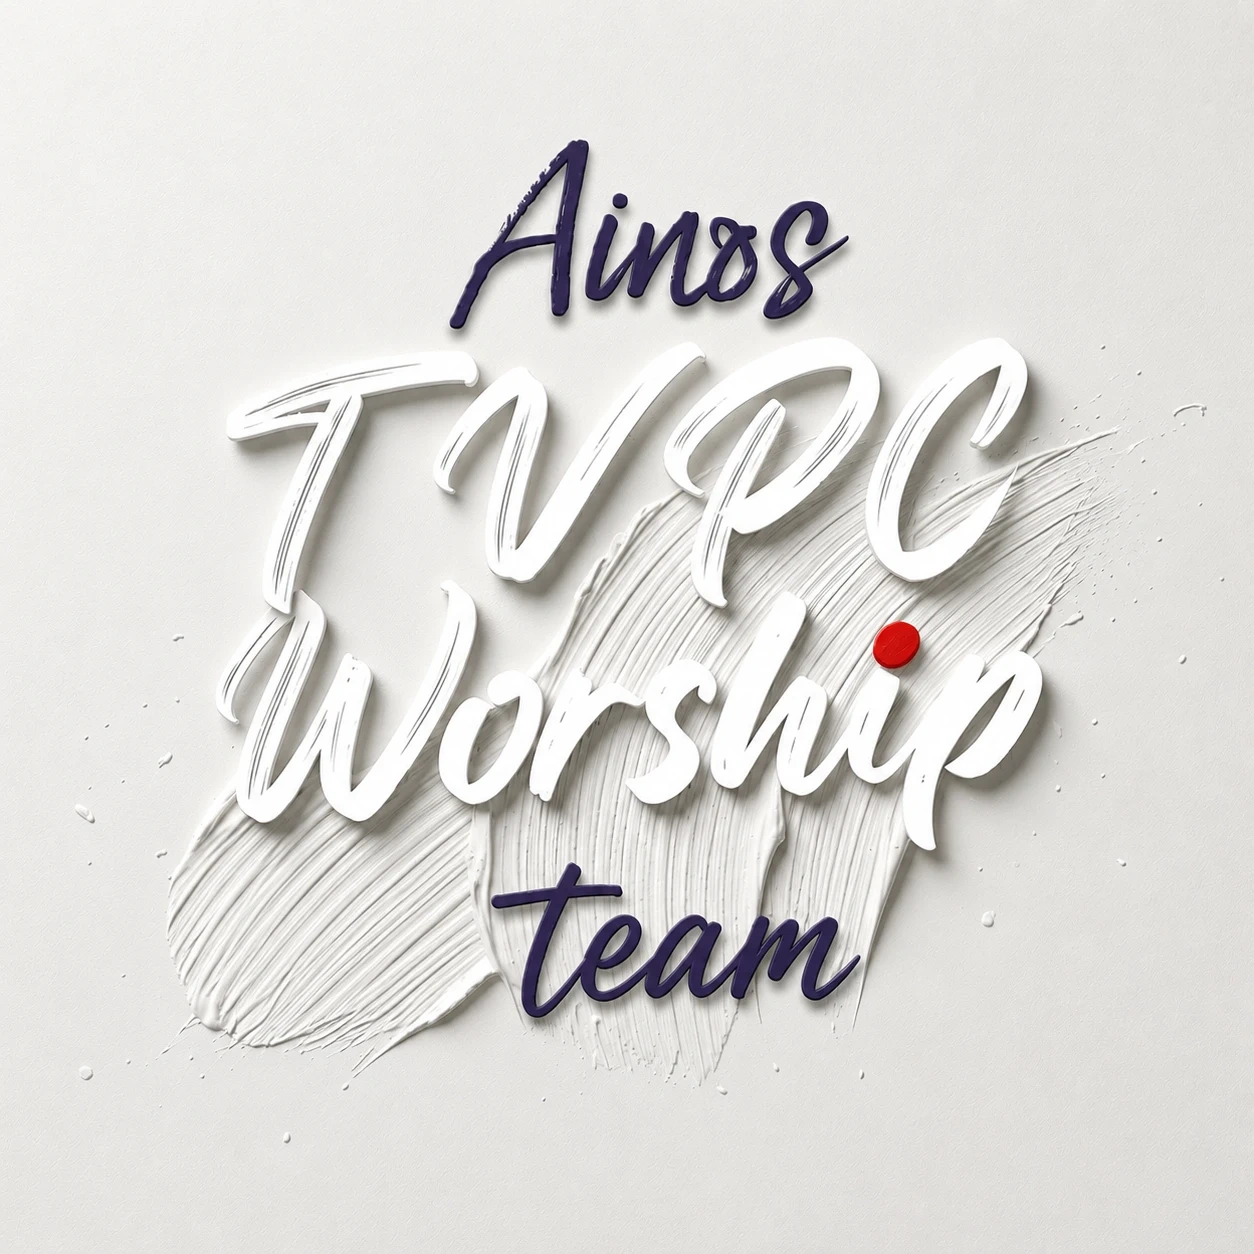
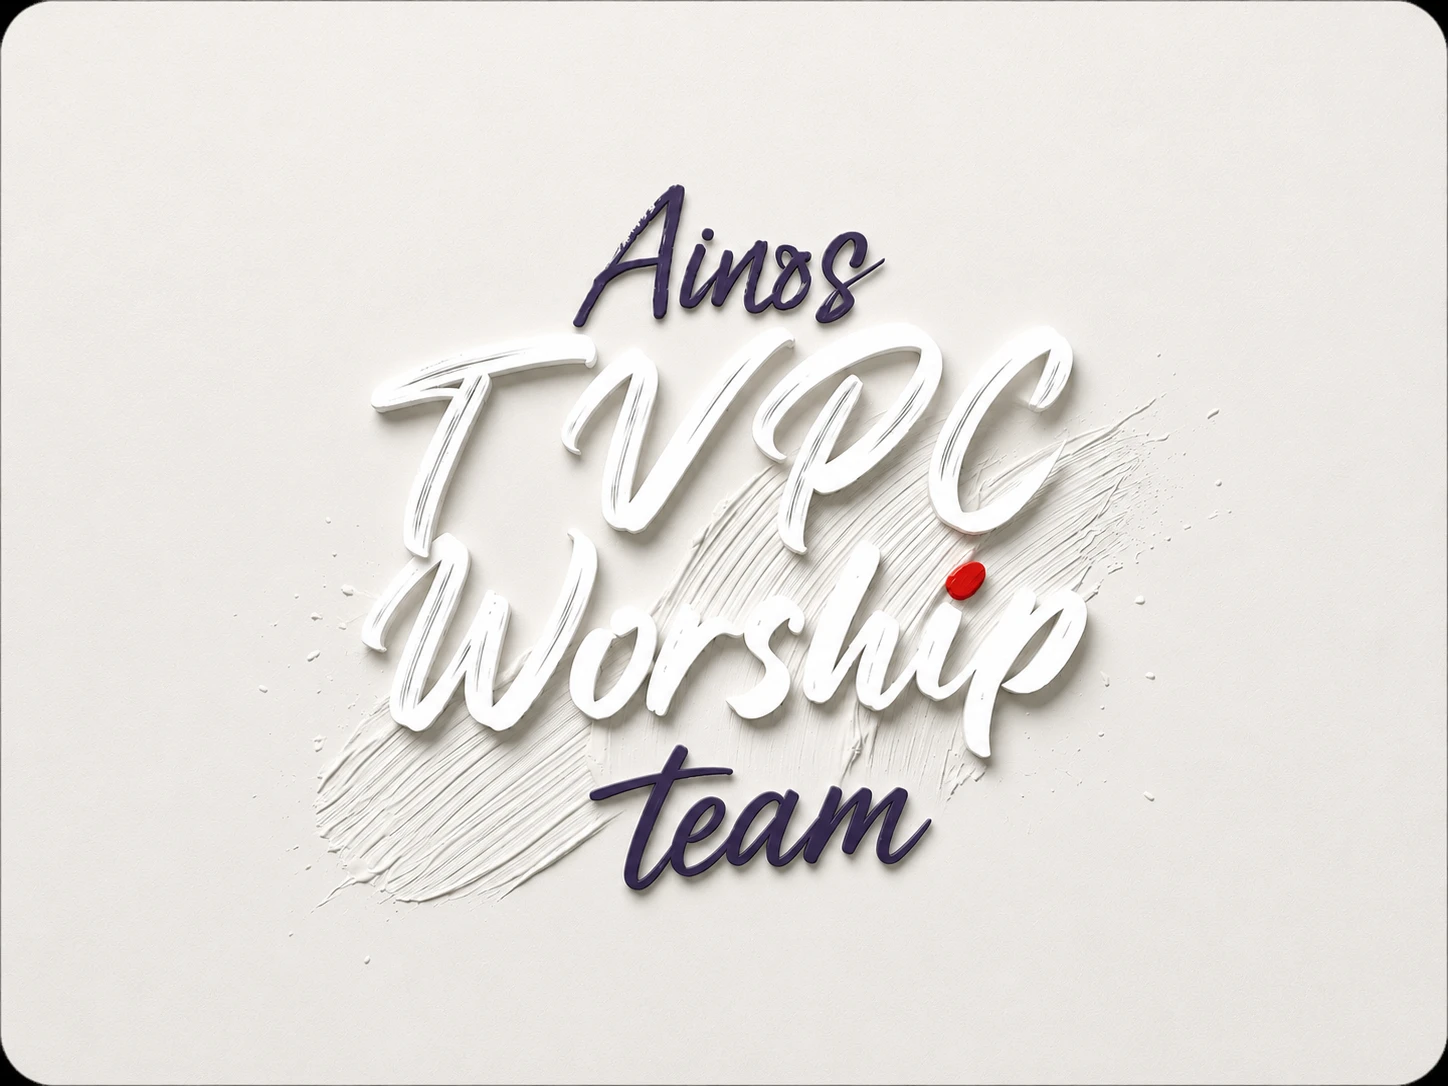
Home bg: replace with iPad-ratio landscape image (v3.515)
- New 1448×1086 landscape WebP (160KB)
- Keeps backgroundSize 80%, backgroundPosition center center

https://claude.ai/code/session_01RpDoybcSjfb8YFvLTDiRWW

diff --git a/src/App.jsx b/src/App.jsx
@@ -19,7 +19,7 @@ import {
 } from "firebase/firestore";
 
 /* ── App version ── */
-const APP_VERSION = "3.514";
+const APP_VERSION = "3.515";
 const localDateStr = (d = new Date()) =>
   `${d.getFullYear()}-${String(d.getMonth()+1).padStart(2,'0')}-${String(d.getDate()).padStart(2,'0')}`;
 